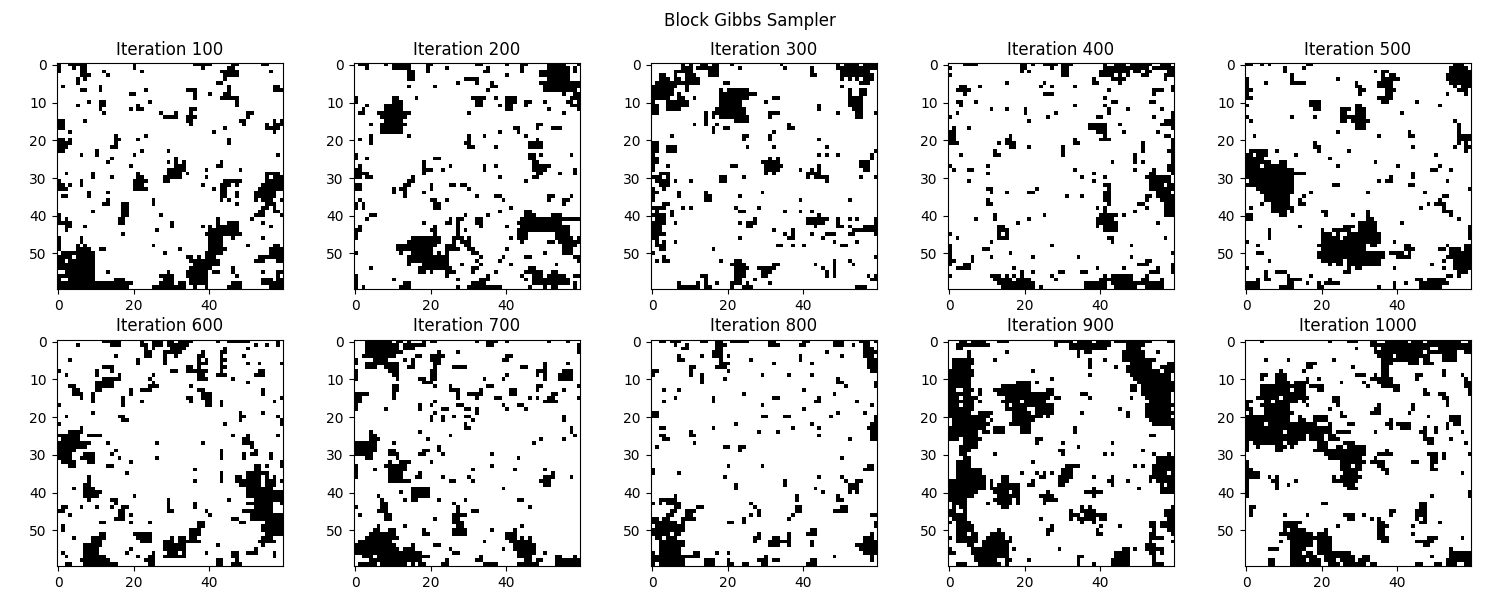
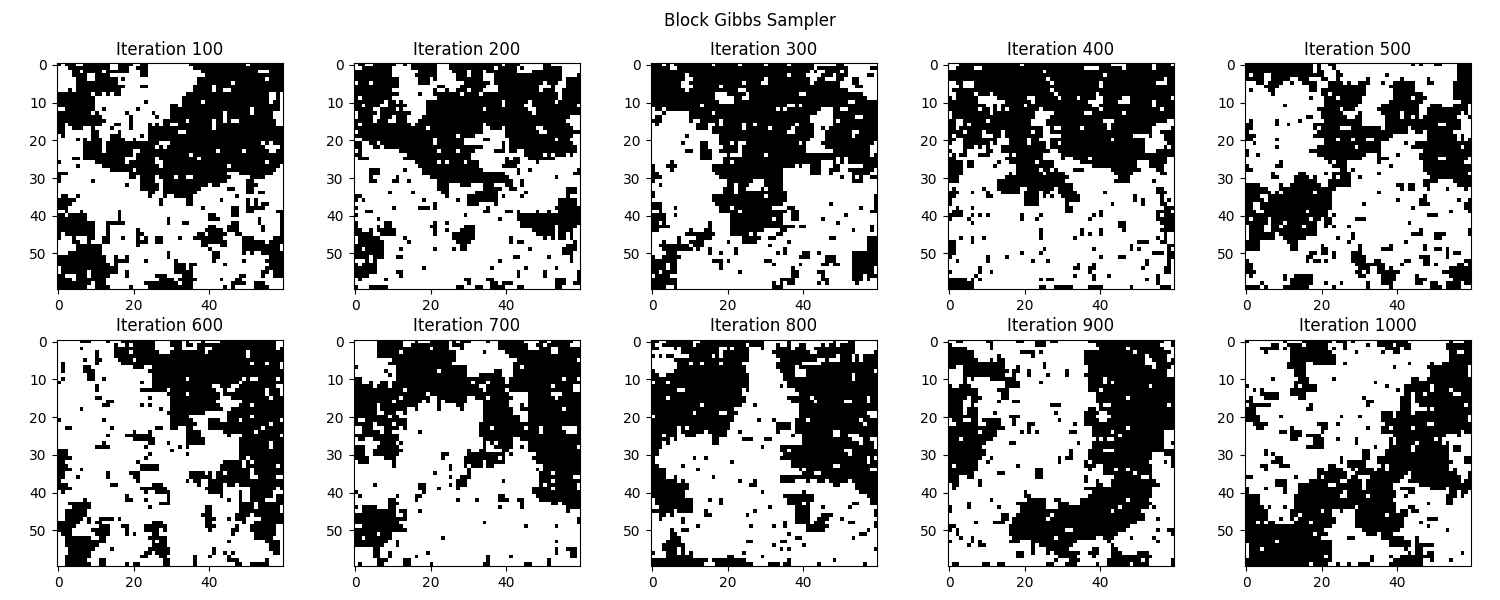
Testing functions

diff --git a/main.py b/main.py
@@ -5,8 +5,8 @@ import os
 def sample_nodes(output_dir='outputs'):
     os.makedirs(output_dir, exist_ok=True)
 
-    graph = SquareLatticeIsingModel(N=60, theta=0.45, p1_init=0)
-    node_samples = graph.sample(iterations=1000, vis_step =100, sample_type = 'node', update_scheme='random')
+    graph = SquareLatticeIsingModel(N=60, theta=0.45, p1_init=0.5)
+    node_samples, fraction = graph.sample(iterations=1000, vis_step =100, sample_type = 'node', update_scheme='random')
     fig1, ax1 = plt.subplots(2, 5, figsize=(15,6))
     fig1.suptitle('Node-by-Node Gibbs Sampler')
     for idx, (ax, node_sample) in enumerate(zip(ax1.flatten(), node_samples)):
@@ -14,9 +14,10 @@ def sample_nodes(output_dir='outputs'):
         ax.set_title(f'Iteration {(idx+1)*100}')
     plt.tight_layout()
     plt.savefig(os.path.join(output_dir,'node_by_node_gibbs_sampler.png'))
+    print(f'Node by Node fraction different value: {fraction}')
 
-    graph_block = SquareLatticeIsingModel(N=60, theta=0.45, p1_init= 0)
-    block_samples = graph_block.sample(iterations=1000, vis_step=100, sample_type = 'block', update_scheme='random')
+    graph_block = SquareLatticeIsingModel(N=60, theta=0.45, p1_init= 0.5)
+    block_samples, fraction = graph_block.sample(iterations=1000, vis_step=100, sample_type = 'block', update_scheme='random')
     fig2, ax2 = plt.subplots(2, 5, figsize=(15,6))
     fig2.suptitle('Block Gibbs Sampler')
     for idx, (ax, node_sample) in enumerate(zip(ax2.flatten(), block_samples)):
@@ -24,6 +25,7 @@ def sample_nodes(output_dir='outputs'):
         ax.set_title(f'Iteration {(idx+1)*100}')
     plt.tight_layout()
     plt.savefig(os.path.join(output_dir,'block_gibbs_sampler.png'))
+    print(f'Block fraction different value: {fraction}')
 
 if __name__ == '__main__':
     sample_nodes()

diff --git a/test.py b/test.py
@@ -1,0 +1,56 @@
+def is_bordering_different_value(grid, row, col):
+    """
+    Checks whether the pixel at (row, col) is bordering a pixel of a different value.
+    
+    Parameters:
+        grid (np.ndarray): 2D array representing the grid.
+        row (int): Row index of the pixel.
+        col (int): Column index of the pixel.
+    
+    Returns:
+        bool: True if the pixel is bordering a pixel of a different value, False otherwise.
+    """
+    current_value = grid[row, col]
+    rows, cols = grid.shape
+
+    # Define neighbor positions (up, down, left, right)
+    neighbors = [
+        (row - 1, col),  # Above
+        (row + 1, col),  # Below
+        (row, col - 1),  # Left
+        (row, col + 1)   # Right
+    ]
+    
+    for r, c in neighbors:
+        # Check if the neighbor is within bounds
+        if 0 <= r < rows and 0 <= c < cols:
+            # Check if the neighbor has a different value
+            if grid[r, c] != current_value:
+                return True
+    
+    return False
+
+
+def fraction_bordering_different_value(grid):
+    """
+    Calculates the fraction of pixels in the grid that border a pixel with a different value.
+    
+    Parameters:
+        grid (np.ndarray): 2D array representing the grid.
+    
+    Returns:
+        float: Fraction of pixels that border a pixel with a different value.
+    """
+    rows, cols = grid.shape
+    bordering_count = 0
+    total_pixels = rows * cols
+
+    # Loop through all pixels in the grid
+    for row in range(rows):
+        for col in range(cols):
+            if is_bordering_different_value(grid, row, col):
+                bordering_count += 1
+    
+    # Calculate fraction
+    fraction = bordering_count / total_pixels
+    return fraction

diff --git a/model.py b/model.py
@@ -3,6 +3,7 @@ from tqdm import tqdm
 from graph import GraphModel
 from random import shuffle
 from functools import partial
+from test import fraction_bordering_different_value
 
 class SquareLatticeIsingModel:
     def __init__(self, N: int = 60, theta: float = 0.45, p1_init: float = 1):
@@ -180,9 +181,13 @@ class SquareLatticeIsingModel:
                 raise NotImplementedError('Update scheme not implemented.')
             pbar.set_description(f'Node Sampler, p={p:.3f}')
 
+            fraction = 0
             if (i + 1) % vis_step == 0 or i == 0:
                 node_samples.append(self.spins.copy())
-        return node_samples
+            if (iterations // vis_step - 1) * (vis_step) <= i:
+                fraction += fraction_bordering_different_value(self.spins)
+            fraction /= (iterations // vis_step)
+        return node_samples, fraction
 
     def _sample_block(self, iterations: int, vis_step: int, **kwargs):
         r'''
@@ -193,10 +198,15 @@ class SquareLatticeIsingModel:
         block_samples = []
         pbar = tqdm(range(iterations))
 
+        fraction = 0
+
         for i in pbar:
             self._block_gibbs_step(update_scheme)
             pbar.set_description('Block Sampler')
 
             if (i + 1) % vis_step == 0:
                 block_samples.append(self.spins.copy())
-        return block_samples
+            if (iterations // vis_step - 1) * (vis_step) <= i:
+                fraction += fraction_bordering_different_value(self.spins)
+            fraction /= (iterations // vis_step)
+        return block_samples, fraction
